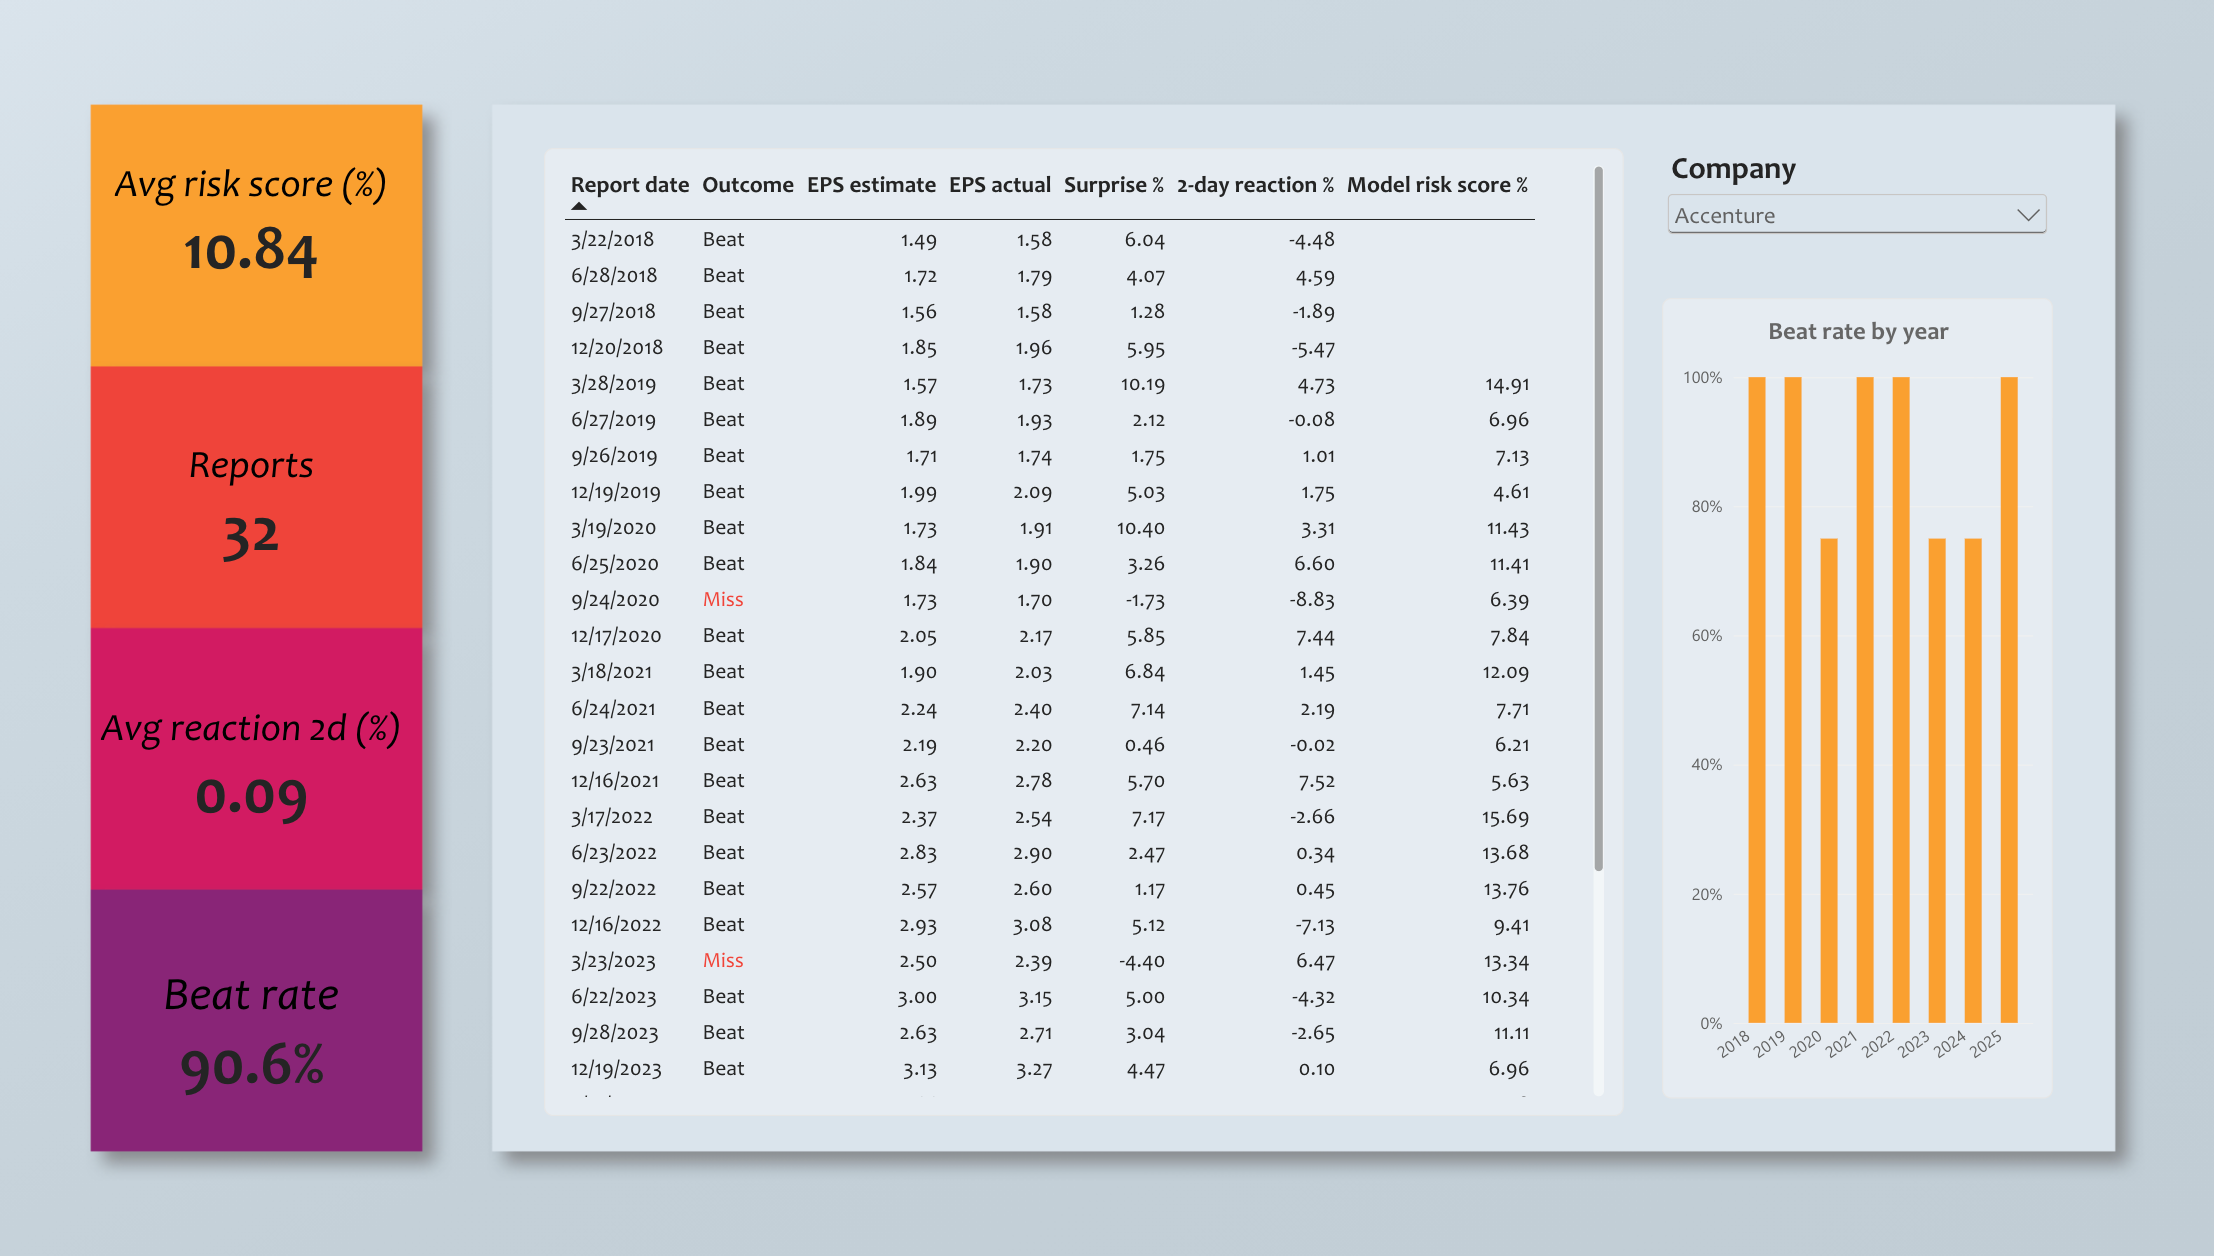
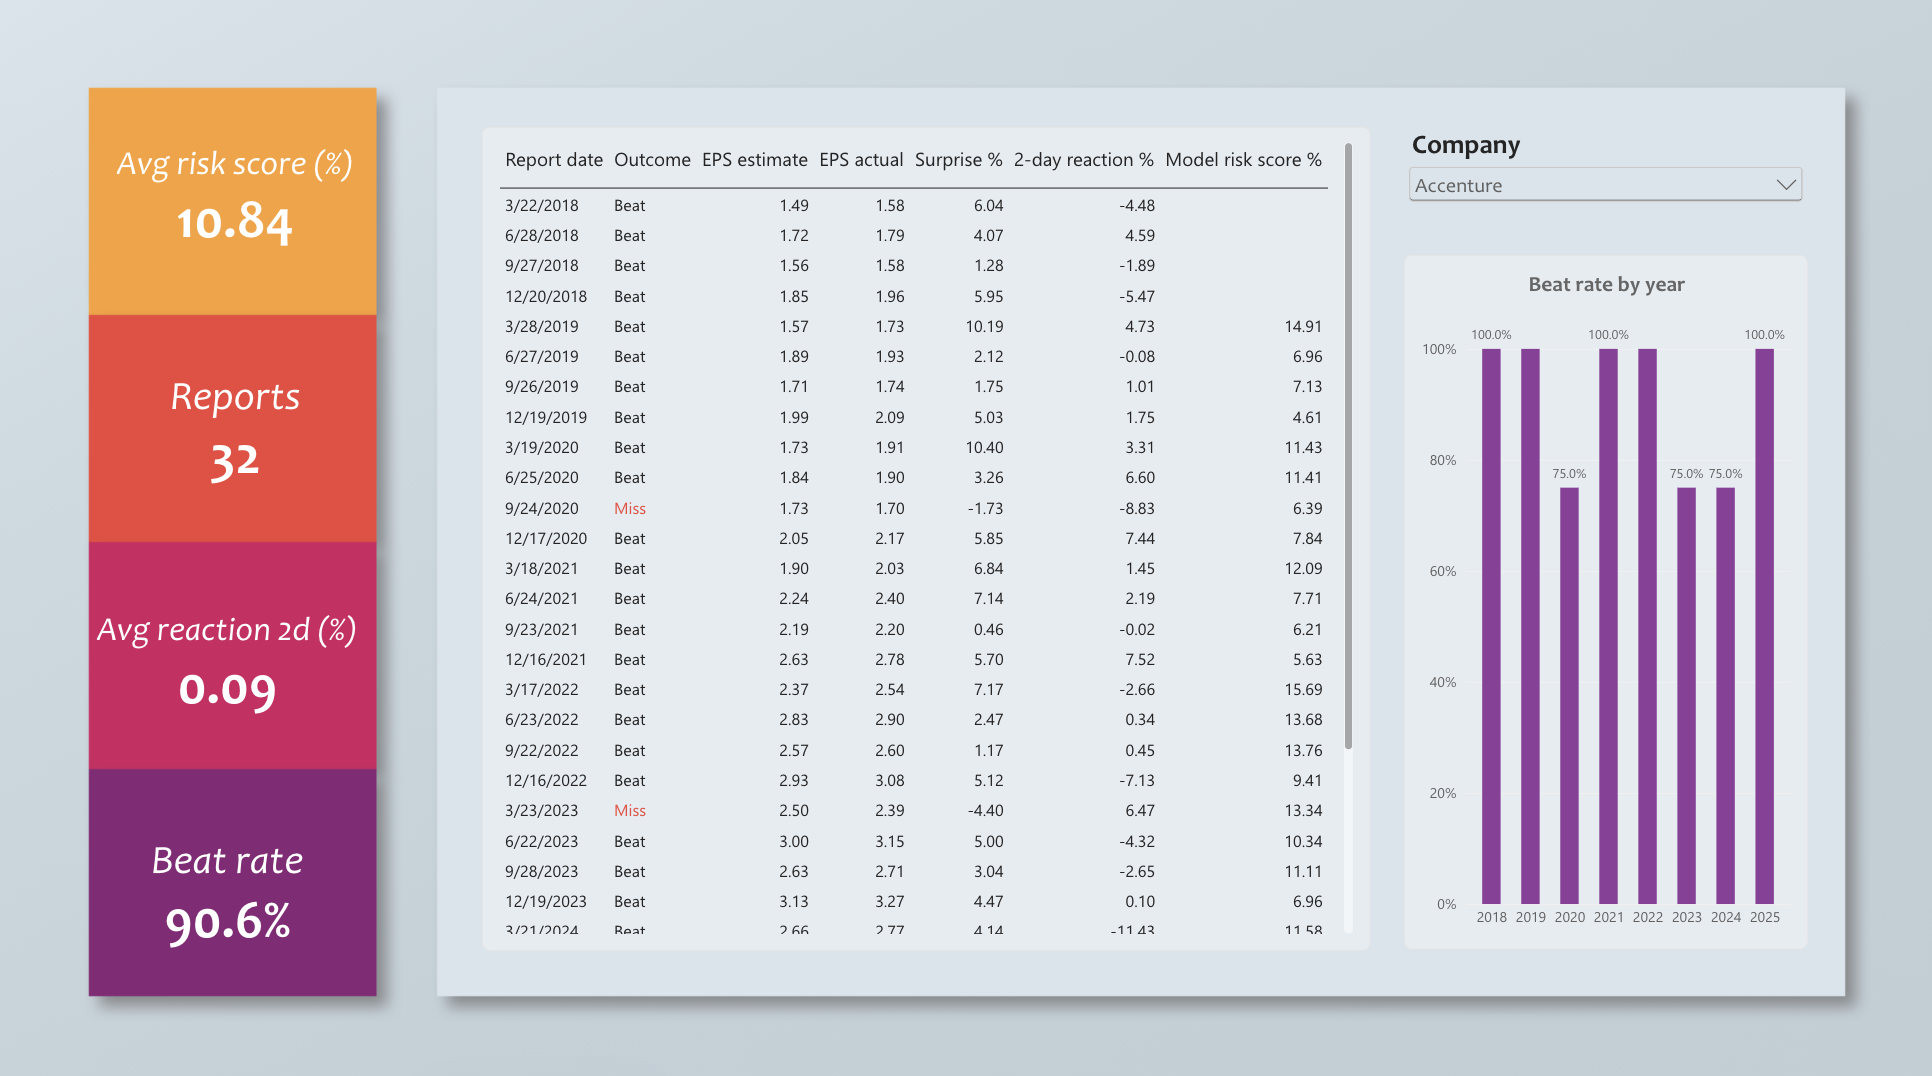
Final report, spot checks and updated dashboard screenshots

diff --git a/REPORT.md b/REPORT.md
@@ -1,0 +1,156 @@
+# Earnings Surprise Predictor — Final Report
+
+*S&P 500 · Information Technology, Consumer Discretionary, Consumer Staples, Communication Services · report dates 2018–2025*
+
+## 1. Summary
+
+Large US companies beat Wall Street's EPS estimate 79% of the time, so a beat is the default. This project asks whether the **21% of quarters that fail to beat** can be identified *before* the announcement, using only information available at the time.
+
+**Answer: yes, modestly and reliably.** A walk-forward logistic regression improves on the sector base rate by **7.5% in Brier score** (0.1512 vs 0.1635), reaches a **ROC AUC of 0.71**, and beats the baseline in **all 7 test years (2019–2025)**. The 10% of quarters it rates riskiest fail to beat **46%** of the time, against 21% on average.
+
+**But this is not a trading signal.** The market already prices the same risk: stocks the model rates risky react *less* badly to bad news and *more* positively to beats. Predicting misses is not the same as predicting returns.
+
+## 2. Why it matters
+
+In the two days after a report (stock return minus the S&P 500):
+
+| Outcome | Share of quarters | Average 2-day reaction |
+|---|---|---|
+| Beat | 79% | **+0.57%** |
+| Exactly in line | 5% | **−2.01%** |
+| Miss | 16% | **−3.20%** |
+
+Misses are punished about **5.6 times** harder than beats are rewarded, and meeting the estimate exactly is treated almost like a miss. That asymmetry is why the not-beat quarters are the ones worth predicting.
+
+## 3. Data
+
+| | |
+|---|---|
+| Universe | Point-in-time S&P 500 membership (a quarter counts if the company was in the index on its report date), 4 sectors, today's GICS labels |
+| Size | 231 companies → 213 with data → **5,380 labelled quarters** |
+| EPS | yfinance adjusted ("Street") EPS and consensus |
+| Prices | yfinance daily prices; SPY and sector ETFs as benchmarks |
+| Fundamentals | SEC EDGAR company facts, **first-filed values only** (no later restatements), Q4 derived as annual minus nine-month year-to-date |
+| Storage | PostgreSQL with automated data-quality checks |
+
+**Data-quality work that changed the result:**
+- **EPS basis.** An Alpha Vantage cross-check (42 companies, 1,313 quarters) found the secondary vendor mixing GAAP with adjusted EPS, mixing stock-split bases and using 10-K filing dates instead of announcement dates. yfinance passed all three checks and became the primary source.
+- **Report dates.** 99% of dates match an SEC 8-K earnings filing within one day.
+- **Stock splits.** Yahoo's prices are adjusted for *all* splits, including those after the study window (for example KLA 10:1, Booking 25:1). Market caps were rebuilt from SEC diluted share counts with the full split history undone. KLA's 2018 market cap went from an impossible figure to the correct ~$18bn.
+- **Tickers.** Paramount (CBS/Viacom/PARA/PSKY), Gap, Wyndham and dual-class shares (GOOG/GOOGL and others) were merged by hand so that each company is counted once.
+
+## 4. Method
+
+- **Target:** `not_beat` = 1 if actual EPS ≤ estimate (ties count as not beating, matching the market's reaction).
+- **39 features** in 7 groups, each built only from information dated before the report, with automated leakage tests:
+  - Track record: beat rate, streak, past surprises
+  - Market signals: returns vs S&P 500, distance from 52-week high, volatility
+  - Earnings season so far: how many companies in the sector have beaten this season
+  - Estimate demand: expected growth vs last year
+  - Timing: reporting lag, before-open or after-close
+  - Sector
+  - SEC fundamentals: margins, leverage, inventory and receivables vs sales, accruals
+- **Validation:** walk-forward by year. Each test year (2019–2025) is predicted by a model trained only on earlier years. Nothing is shuffled across time.
+- **Models:**
+  - Two baselines: the overall base rate and the sector base rate.
+  - Logistic regression: C = 0.05, median imputation fitted on the training set only, 1–99% clipping.
+  - Gradient-boosted trees.
+- **Metric:** Brier score, the mean squared error of the predicted probability. Accuracy is useless here because "always beat" is already 79% accurate.
+
+## 5. Results
+
+| Model | Brier | Skill vs sector base rate | ROC AUC | PR AUC | Not-beat rate, riskiest 10% |
+|---|---|---|---|---|---|
+| Overall base rate | 0.1669 | −2.1% | 0.46 | 0.20 | 22% |
+| Sector base rate | 0.1635 | — | 0.57 | 0.24 | 21% |
+| **Logistic regression** | **0.1512** | **+7.5%** | **0.71** | **0.39** | **46%** |
+| Gradient-boosted trees | 0.1557 | +4.8% | 0.68 | 0.36 | 46% |
+
+- Logistic regression beats the baseline in 7 of 7 years; the trees do so in 6 of 7 (they lose in 2019, the year with the least training data).
+- **Calibration is good:** predicted vs actual not-beat rate by decile runs from 5% vs 4% in the safest decile to 51% vs 46% in the riskiest. The probabilities can be read literally, with slight overconfidence at the top.
+- PR AUC of 0.39 against a 21% not-beat share means roughly double the precision of random selection.
+
+## 6. What drives the model
+
+| Group | Skill without it | Skill with it alone |
+|---|---|---|
+| Track record | +3.6% (−3.9 pts) | +6.0% |
+| Market signals | +6.6% (−0.8) | +2.3% |
+| Earnings season | +6.9% (−0.6) | +0.9% |
+| Sector | +7.2% (−0.3) | — |
+| SEC fundamentals | +7.5% (−0.0) | +1.4% |
+
+- **Track record does most of the work.** A company that has beaten 8 quarters in a row rarely misses (10% not-beat rate); one that beat 5 or fewer of the last 8 misses 36% of the time.
+- **SEC fundamentals are individually predictive but add nothing once track record is known.** Inventory growing faster than sales raises the not-beat rate from 16% to 26% across quintiles, but the company's recent history already contains that information.
+- **Earnings season is contagious.** When the sector has beaten less often so far this season, the next company is more likely to miss (26% vs 15%).
+
+**The five hypotheses from the charter:**
+
+| # | Hypothesis | Verdict |
+|---|---|---|
+| 1 | Track record matters, especially once weighted by sector base rate | **Partly.** Track record is the strongest signal, but shrinking it toward the sector rate adds nothing measurable |
+| 2 | Demanding estimates are missed more often | **Rejected.** The opposite holds: quarters with *low* expected growth miss more (28% vs 16–19%) |
+| 3 | The market partly anticipates misses | **Supported.** Stocks far below their 52-week high miss 32% of the time vs 15% |
+| 4 | Earnings season is contagious | **Supported** (see above) |
+| 5 | Fundamentals give early warnings | **Supported individually, redundant in the model** |
+
+## 7. Robustness
+
+| Test | Skill |
+|---|---|
+| Full model, 2019–2025 | +7.5% |
+| Ties counted as beats (target = strict miss) | +7.8% |
+| Without SEC fundamentals | +7.5% |
+| Test years 2021–2025 only | +8.9% |
+| 2020 alone (COVID) | +7.3% |
+| Compact 21-feature model, chosen on 2019–21, tested on 2022–25 | +8.6% (vs +8.9% full) |
+
+The last test matters: pruning features *with hindsight* had suggested a smaller model was better, but chosen honestly on past data only it was not. Feature selection must follow the same walk-forward rule as training.
+
+By segment, skill is highest for Communication Services (+10.0%) and for companies at either extreme of track record (+10.6% for frequent missers, +11.0% for 8-of-8 beaters), and lowest for Consumer Staples (+4.5%).
+
+## 8. Can you trade it? The market test
+
+| | Safest third | Riskiest third | Difference |
+|---|---|---|---|
+| Reaction when the company **beats** | +0.10% | **+1.13%** | +1.03 pts (t = 3.5) |
+| Reaction when **in line** | −4.46% | −1.07% | +3.39 pts (t = 2.9) |
+| Reaction when it **misses** | −3.83% | −2.76% | +1.07 pts (t = 1.1) |
+
+The riskiest decile underperforms the safest by only 0.33 points after the report, which is not significant (t = −0.6). The market expects the same risk the model sees: a risky company that beats is a real surprise and is rewarded, while a safe company that misses is punished hardest. **The model measures information the market already uses; it does not beat the market.**
+
+## 9. Limitations
+
+- **Survivorship:** 16 companies (3.6% of expected quarters) have no free estimate history, the largest being Electronic Arts.
+- **Estimate timing and revisions:** free data gives one consensus number with no timestamp and no revision history. Estimate revisions are among the strongest known predictors; a production version would add I/B/E/S data.
+- **Rounding:** EPS is rounded to the cent, so 5.4% of quarters are exact ties.
+- **Sector labels:** today's GICS labels are used throughout (see spot checks).
+- **Report-time labels:** 30 in-window quarters (0.6%) are tagged "during market hours" or unknown. Some are really after-close reports. The 2-day reaction window still captures the reaction day for these.
+
+## 10. Manual spot checks (29 September 2026)
+
+| Check | Result |
+|---|---|
+| **Walmart, Q3 FY23 (reported 15 Nov 2022)** | Walmart reported adjusted EPS $1.50 (GAAP $0.66). The dataset shows $0.50: the same figure after the 3-for-1 split of February 2024. ✅ Correct and split-consistent; Alpha Vantage mixed the two bases |
+| **Microsoft, Q1 FY22 (reported 26 Oct 2021, quarter ending Sept 2021)** | Microsoft reported $2.71 GAAP, which includes a $0.44 one-off tax benefit, and $2.27 excluding it. The dataset uses **$2.27**. ✅ Adjusted basis confirmed; Alpha Vantage's $2.71 was GAAP |
+| **Microsoft, Q2 FY23 (24 Jan 2023)** | Non-GAAP $2.32, GAAP $2.20 (severance and impairment charges). The dataset uses $2.32 ✅. With an estimate of exactly $2.32 it is labelled "in line"; other sources quote a consensus a few cents lower, so the label depends on the estimate vendor, a known limitation of ties |
+| **Supermicro, Feb 2025** | Preliminary Q2 FY25 results came out on **11 Feb 2025** (non-GAAP EPS $0.58–0.60). The dataset dates the quarter **25 Feb 2025**, when the delayed annual report was filed, with EPS $0.60. ⚠ EPS consistent, date wrong: 1 of 5,380 reactions is measured two weeks late. Documented, not changed |
+| **Disney, Paramount, Bunge report dates** (below 90% match with SEC 8-Ks) | The unmatched dates all come from before a change of legal entity: Disney's new holding company after the Fox deal (2019), Paramount Skydance (2025), Bunge's move to Switzerland (2023). Each earlier filing sits under an older SEC company number. ✅ Dates are correct; the check looked up the wrong filer |
+| **Sector: TripAdvisor** | Moved from Consumer Discretionary to Communication Services in the September 2018 reclassification. ✅ Communication Services |
+| **Sector: Scripps Networks** | A media company, left the index in March 2018 when Discovery bought it, before the reclassification. Labelled Communication Services, consistent with where media moved. ✅ Consistent with the "today's labels" rule |
+| **Sector: Wyndham Worldwide** | Hotels and timeshares; Consumer Discretionary. ✅ |
+| **Sector: Vontier** | Fortive spin-off (electronic and mobility technology); Information Technology. ✅ |
+
+## 11. What I would do next
+
+1. Add **estimate revisions** (I/B/E/S or a paid vendor): the biggest missing signal.
+2. Use **text from earnings calls and 8-K guidance** (NLP) as a new feature group.
+3. Predict the **size** of the surprise, or the reaction given the surprise, rather than beat vs not-beat.
+4. Test whether the model's risk score combined with options-implied volatility says anything the market does not already know.
+
+## Sources for the spot checks
+
+- [Walmart Q3 FY23 earnings release](https://corporate.walmart.com/news/2022/11/15/walmart-releases-q3-fy23-earnings)
+- [Microsoft FY22 Q1 press release](https://www.microsoft.com/en-us/investor/earnings/fy-2022-q1/press-release-webcast)
+- [Microsoft FY23 Q2 press release](https://www.microsoft.com/en-us/investor/earnings/fy-2023-q2/press-release-webcast)
+- [Supermicro Q2 FY25 preliminary results (Business Wire, 11 Feb 2025)](https://www.businesswire.com/news/home/20250211669277/en/Supermicro-Announces-Second-Quarter-Fiscal-Year-2025-Preliminary-Financial-Information)

diff --git a/README.md b/README.md
@@ -4,7 +4,7 @@
 
 Large US companies beat consensus 79% of the time, so a beat is the default. This project looks at the quarters that don't beat, where the market reacts hardest: in 2018–2025, stocks fell **3.2%** relative to the S&P 500 in the two days after a miss, against **+0.6%** after a beat.
 
-The full project scope, hypotheses, success criteria and limitations are in **[CHARTER.md](CHARTER.md)**; every model input is defined in **[FEATURES.md](FEATURES.md)**.
+**Read the full write-up in [REPORT.md](REPORT.md)**: results, hypotheses tested, robustness, the market test, limitations and manual spot checks. The original scope is in [CHARTER.md](CHARTER.md); every model input is defined in [FEATURES.md](FEATURES.md).
 
 ## First model result
 
@@ -96,4 +96,4 @@ Downloaded data is not stored in this repository; the scripts recreate it.
 - [x] Part 2 — feature engineering: 39 leakage-tested features ([FEATURES.md](FEATURES.md))
 - [x] Part 3 — walk-forward model, feature analysis, robustness and market test ([results](reports/part3_results.txt))
 - [x] Power BI dashboard: overview, company explorer, model
-- [ ] Final report
+- [x] Final report ([REPORT.md](REPORT.md))
